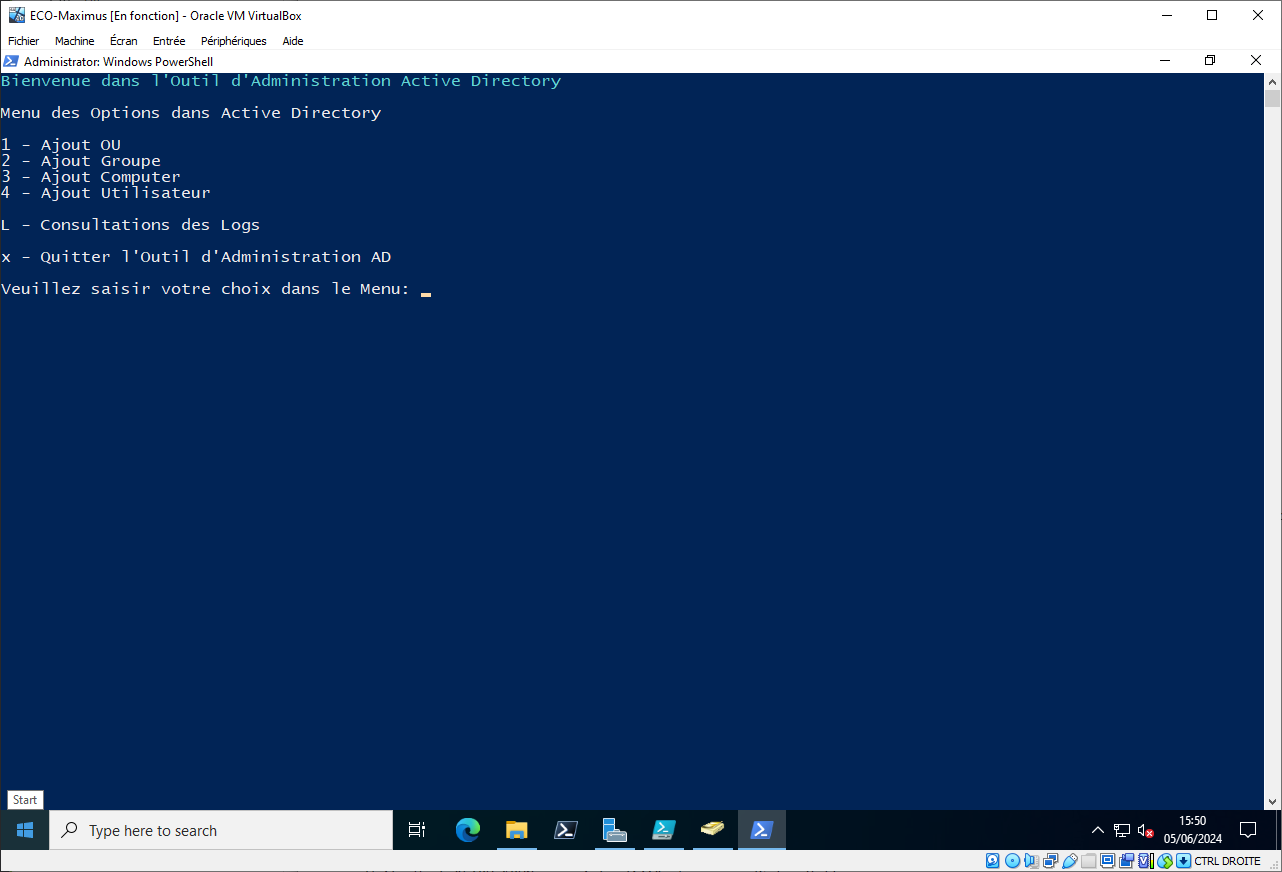
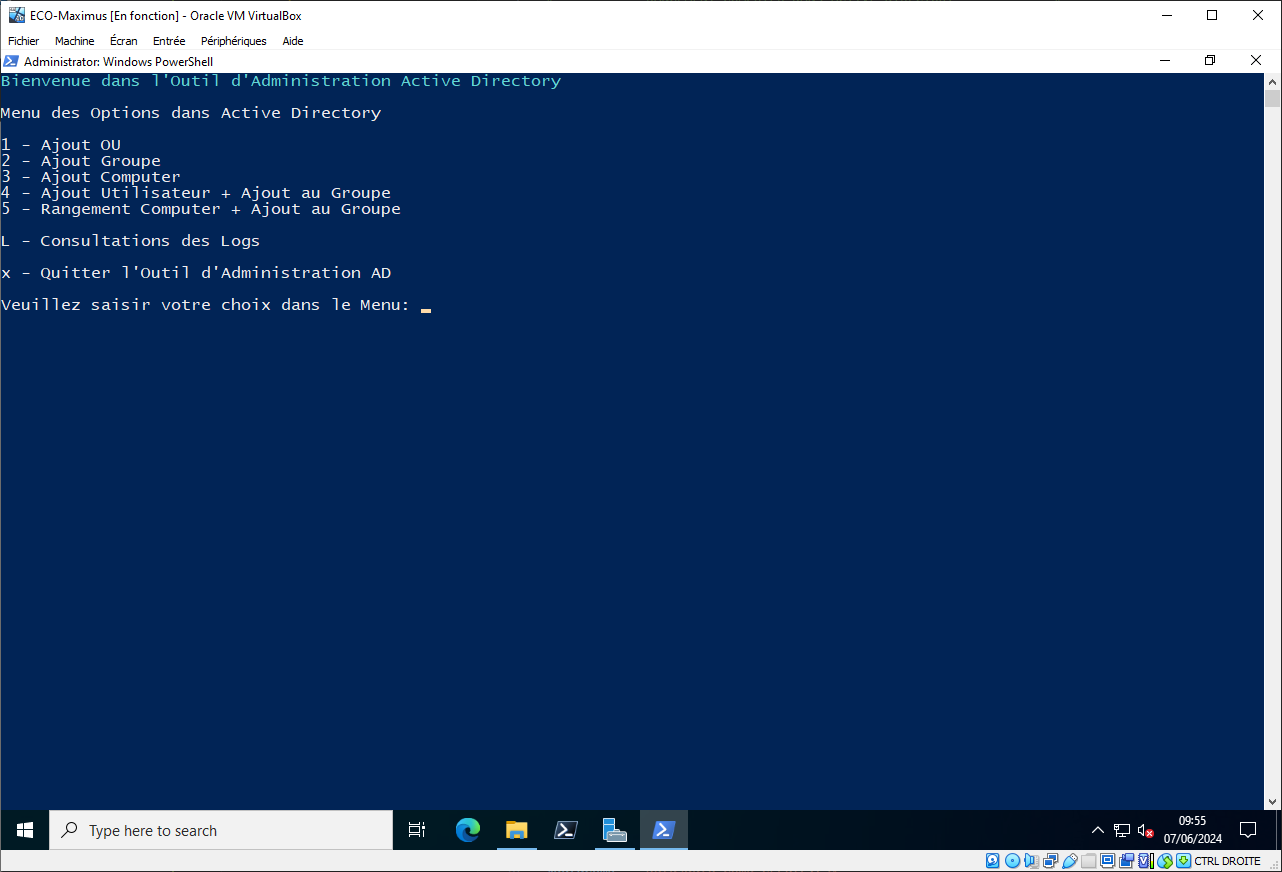
Update S13 and more

Changed region(s): [[0.0, 0.0, 1.0, 1.0], [0.0, 0.2167, 0.312, 0.3716]]

diff --git a/S13/annex/Rangement_Computer_Scheduler.md b/S13/annex/Rangement_Computer_Scheduler.md
@@ -1,0 +1,62 @@
+# Déplacement des machines dans l'AD
+
+## Script
+
+1. Exécuter le script `00_Main_AD` situé dans le `C:\Admin\ActiveDirectory`.
+
+![script](/ressource/S11/scripts/Scripts_AD_01.PNG)
+
+2. Choisissez l'Option `5 - Rangement Computer + Ajout au Groupe`.
+
+![script](/ressource/S11/scripts/Scripts_AD_02.PNG)
+
+3. Le script s'éxécute, il va piocher les ordinateurs en consultant le dernier fichier .csv du personnel, et les ranger en fonction du département et/ou service de l'utilisateur, ainsi que l'ajouter au Groupes `GRP_EcoT_Computers`, `GRP_EcoT_Computers_Département` et `GRP_EcoT_Computers_Département_Service` (si existant).
+
+![script](/ressource/S11/scripts/Scripts_AD_10.PNG)
+
+
+## Planification dans le Task Scheduler
+
+1. Ouvrez le `Task Scheduler` via la recherche Windows.
+
+![scheduler](/ressource/S13/scheduler/Task_Scheduler_01.PNG)
+
+2. Une fois le `Task Scheduler` ouvert, cliquez `Action` puis `Create Task`.
+
+![scheduler](/ressource/S13/scheduler/Task_Scheduler_02.PNG)
+
+3. Sur l'onglet `General`, remplissez les champs `Name` et `Description` et sélectionnez l'option `Run whether user is logged on or not` (afin de forcer le démarrage de la tâche même si l'Administrateur n'est pas connecté).
+
+![scheduler](/ressource/S13/scheduler/Task_Scheduler_03.PNG)
+
+4. Sur l'onglet `Triggers`, cliquez sur `New`.
+
+![scheduler](/ressource/S13/scheduler/Task_Scheduler_04.PNG)
+
+5. Sélectionnez `Daily`, ainsi qu'une heure d'éxécution puis cliquez sur `OK`.
+
+![scheduler](/ressource/S13/scheduler/Task_Scheduler_05.PNG)
+
+6. Sur l'onglet `Actions`, cliquez sur `New`.
+
+![scheduler](/ressource/S13/scheduler/Task_Scheduler_06.PNG)
+
+7. Remplissez les champs `Program/Script` pour exécuter `powershell.exe`, ainsi que le champ `Add argument (optiional)` avec le chemin du script puis `OK`.
+
+![scheduler](/ressource/S13/scheduler/Task_Scheduler_07.PNG)
+
+8. Sur l'onglet `Conditions`, rien à modifier. 
+
+![scheduler](/ressource/S13/scheduler/Task_Scheduler_08.PNG)
+
+9. Sur l'onglet `Settings`, rien à modifier, cliquez sur `OK`.
+
+![scheduler](/ressource/S13/scheduler/Task_Scheduler_09.PNG)
+
+10. Saisissez le mot de passe `Administrator` afin de valider la tâche.
+
+![scheduler](/ressource/S13/scheduler/Task_Scheduler_10.PNG)
+
+11. Votre tâche est fonctionnelle, elle apparait dans `Active Tasks`.
+
+![scheduler](/ressource/S13/scheduler/Task_Scheduler_11.PNG)
